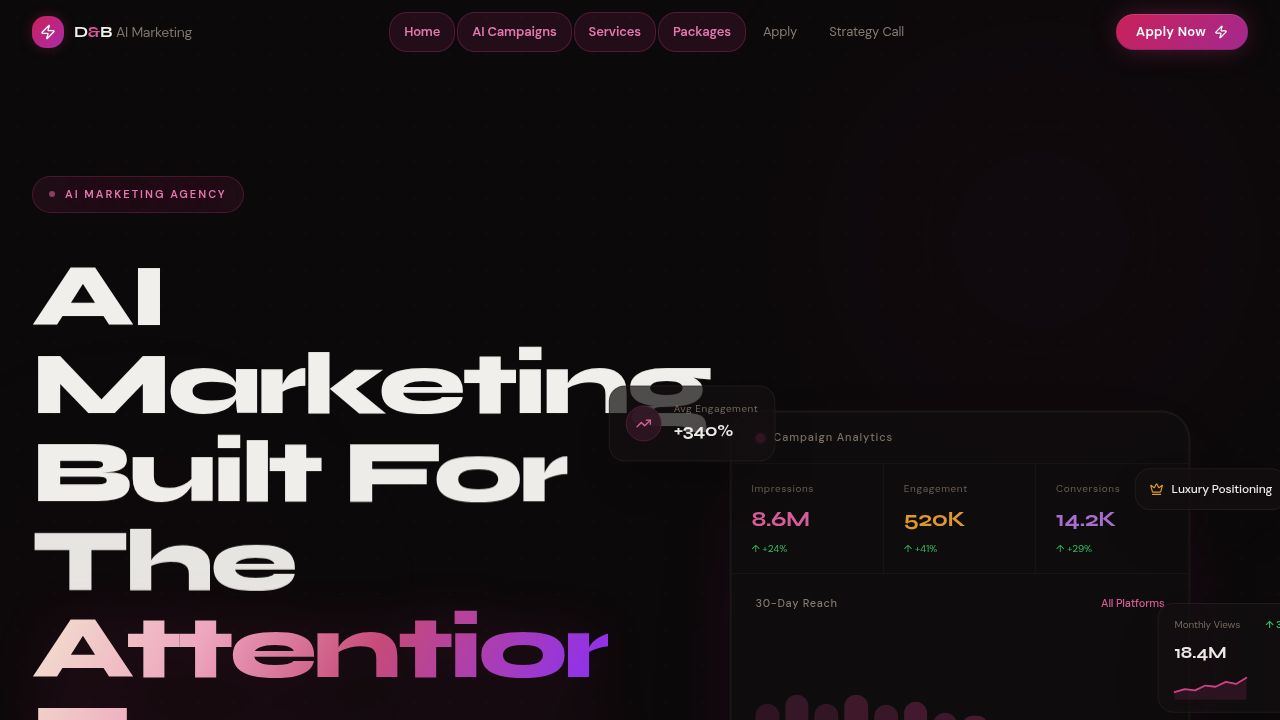
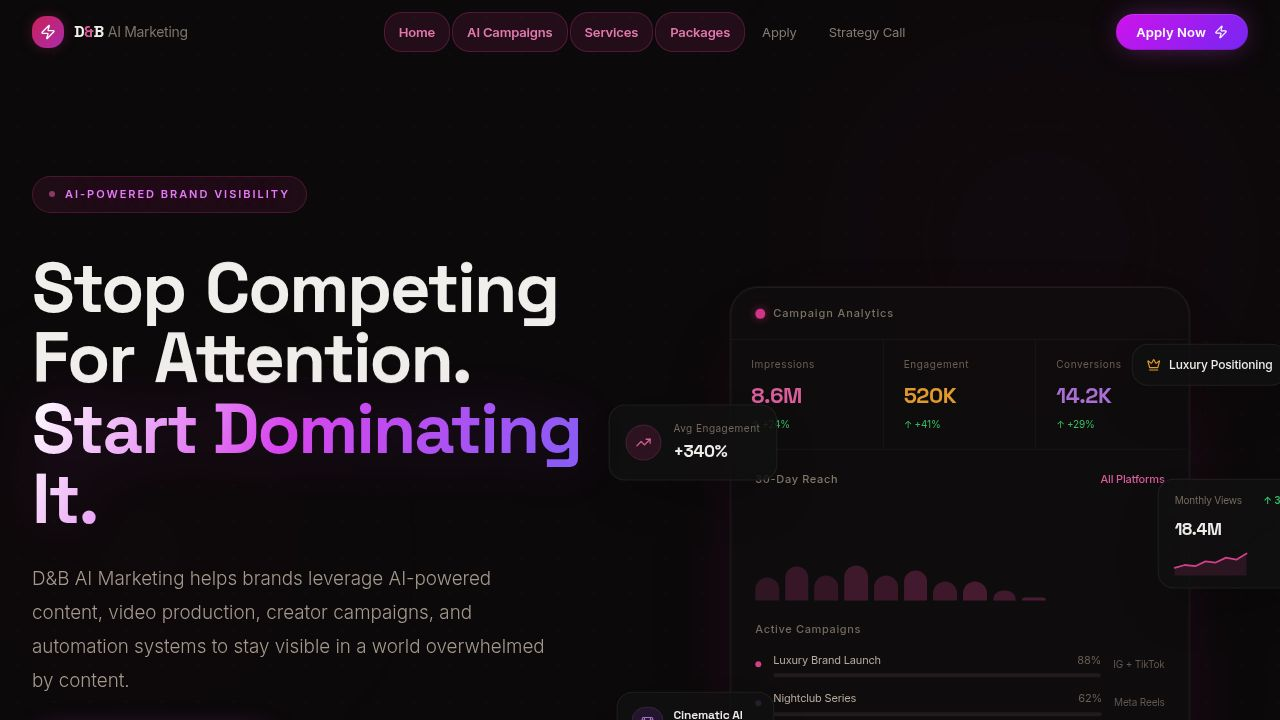
Integrate with GoHighLevel API for CRM contact management
Adds a backend proxy to handle GoHighLevel API requests and updates CRM functions to use this proxy, ensuring secure handling of API credentials and data.

Replit-Commit-Author: Agent
Replit-Commit-Session-Id: 8994f5b4-9697-4e69-870e-6b228a8e87fc
Replit-Commit-Checkpoint-Type: full_checkpoint
Replit-Commit-Event-Id: 0b8d0b77-85d4-4b7c-a1d1-13adb9010152
Replit-Commit-Screenshot-Url: https://storage.googleapis.com/screenshot-production-us-central1/397fbe9b-0791-43e6-8941-d441443d4e98/8994f5b4-9697-4e69-870e-6b228a8e87fc/2cfG6Y1
Replit-Helium-Checkpoint-Created: true

diff --git a/artifacts/app-squad/src/lib/crm.ts b/artifacts/app-squad/src/lib/crm.ts
@@ -1,4 +1,37 @@
-// CRM integration stubs — replace console.log with GoHighLevel webhook calls when ready.
+// CRM integration — proxies through the API server to GoHighLevel V2.
+// The backend route is POST /api/ghl/contact.
+
+const GHL_PROXY = "/api/ghl/contact";
+
+async function upsertGHLContact(payload: {
+  firstName: string;
+  lastName?: string;
+  email: string;
+  phone: string;
+  tags?: string[];
+  customFields?: Record<string, string>;
+}) {
+  try {
+    const res = await fetch(GHL_PROXY, {
+      method: "POST",
+      headers: { "Content-Type": "application/json" },
+      body: JSON.stringify(payload),
+    });
+    if (!res.ok) {
+      const err = await res.json().catch(() => ({}));
+      console.warn("[CRM] GHL error:", err);
+    }
+  } catch (e) {
+    console.warn("[CRM] Could not reach proxy:", e);
+  }
+}
+
+function splitName(full: string): { firstName: string; lastName: string } {
+  const parts = full.trim().split(/\s+/);
+  const firstName = parts[0] ?? full;
+  const lastName = parts.slice(1).join(" ");
+  return { firstName, lastName };
+}
 
 export function sendLeadToCRM(payload: {
   name: string;
@@ -6,16 +39,15 @@ export function sendLeadToCRM(payload: {
   phone: string;
   source: string;
 }) {
-  // TODO: Replace with GoHighLevel webhook endpoint
-  const data = {
-    source: payload.source,
-    stage: "lead_captured",
-    clientName: payload.name,
+  const { firstName, lastName } = splitName(payload.name);
+  upsertGHLContact({
+    firstName,
+    lastName,
     email: payload.email,
     phone: payload.phone,
-    timestamp: new Date().toISOString(),
-  };
-  console.log("[CRM] sendLeadToCRM:", JSON.stringify(data, null, 2));
+    tags: ["lead", payload.source],
+    customFields: { stage: "lead_captured", source: payload.source },
+  });
 }
 
 export function sendApplicationToCRM(payload: {
@@ -28,20 +60,22 @@ export function sendApplicationToCRM(payload: {
   timeline: string;
   source: string;
 }) {
-  // TODO: Replace with GoHighLevel webhook endpoint
-  const data = {
-    source: payload.source,
-    stage: "application_submitted",
-    clientName: payload.name,
+  const { firstName, lastName } = splitName(payload.name);
+  upsertGHLContact({
+    firstName,
+    lastName,
     email: payload.email,
     phone: payload.phone,
-    goal: payload.goal,
-    gameInterest: payload.game,
-    budgetRange: payload.budget,
-    launchTimeline: payload.timeline,
-    timestamp: new Date().toISOString(),
-  };
-  console.log("[CRM] sendApplicationToCRM:", JSON.stringify(data, null, 2));
+    tags: ["application", payload.source],
+    customFields: {
+      stage: "application_submitted",
+      source: payload.source,
+      goal: payload.goal,
+      game_interest: payload.game,
+      budget_range: payload.budget,
+      launch_timeline: payload.timeline,
+    },
+  });
 }
 
 export function sendGameSelectionToCRM(payload: {
@@ -53,19 +87,21 @@ export function sendGameSelectionToCRM(payload: {
   templateName: string;
   source: string;
 }) {
-  // TODO: Replace with GoHighLevel webhook endpoint
-  const data = {
-    source: "post_payment_onboarding",
-    stage: "game_selected",
-    clientName: payload.clientName,
+  const { firstName, lastName } = splitName(payload.clientName);
+  upsertGHLContact({
+    firstName,
+    lastName,
     email: payload.email,
     phone: payload.phone,
-    selectedGameType: payload.selectedGameType,
-    gameCategory: payload.gameCategory,
-    templateName: payload.templateName,
-    timestamp: new Date().toISOString(),
-  };
-  console.log("[CRM] sendGameSelectionToCRM:", JSON.stringify(data, null, 2));
+    tags: ["onboarding", "game-selected"],
+    customFields: {
+      stage: "game_selected",
+      source: "post_payment_onboarding",
+      selected_game_type: payload.selectedGameType,
+      game_category: payload.gameCategory,
+      template_name: payload.templateName,
+    },
+  });
 }
 
 export function sendCustomizationToCRM(payload: {
@@ -81,23 +117,25 @@ export function sendCustomizationToCRM(payload: {
   notesForDevelopmentTeam: string;
   source: string;
 }) {
-  // TODO: Replace with GoHighLevel webhook endpoint
-  const data = {
-    source: "post_payment_onboarding",
-    stage: "customization_submitted",
-    clientName: payload.clientName,
+  const { firstName, lastName } = splitName(payload.clientName);
+  upsertGHLContact({
+    firstName,
+    lastName,
     email: payload.email,
     phone: payload.phone,
-    appName: payload.appName,
-    brandName: payload.brandName,
-    preferredColors: payload.preferredColors,
-    targetAudience: payload.targetAudience,
-    appDescription: payload.appDescription,
-    monetizationPreference: payload.monetizationPreference,
-    notesForDevelopmentTeam: payload.notesForDevelopmentTeam,
-    timestamp: new Date().toISOString(),
-  };
-  console.log("[CRM] sendCustomizationToCRM:", JSON.stringify(data, null, 2));
+    tags: ["onboarding", "customization-submitted"],
+    customFields: {
+      stage: "customization_submitted",
+      source: "post_payment_onboarding",
+      app_name: payload.appName,
+      brand_name: payload.brandName,
+      preferred_colors: payload.preferredColors,
+      target_audience: payload.targetAudience,
+      app_description: payload.appDescription,
+      monetization_preference: payload.monetizationPreference,
+      notes_for_dev_team: payload.notesForDevelopmentTeam,
+    },
+  });
 }
 
 export function sendPartnerApplicationToCRM(payload: {
@@ -113,24 +151,26 @@ export function sendPartnerApplicationToCRM(payload: {
   bizOppExperience: string;
   reasonForPartnering: string;
 }) {
-  // TODO: Replace with GoHighLevel webhook endpoint
-  const data = {
-    source: "partner_program",
-    stage: "partner_application_submitted",
-    partnerName: payload.partnerName,
+  const { firstName, lastName } = splitName(payload.partnerName);
+  upsertGHLContact({
+    firstName,
+    lastName,
     email: payload.email,
     phone: payload.phone,
-    company: payload.company,
-    website: payload.website,
-    promotionMethod: payload.promotionMethod,
-    audienceType: payload.audienceType,
-    estimatedLeadVolume: payload.estimatedLeadVolume,
-    paidAdsExperience: payload.paidAdsExperience,
-    bizOppExperience: payload.bizOppExperience,
-    reasonForPartnering: payload.reasonForPartnering,
-    timestamp: new Date().toISOString(),
-  };
-  console.log("[CRM] sendPartnerApplicationToCRM:", JSON.stringify(data, null, 2));
+    tags: ["partner-application"],
+    customFields: {
+      stage: "partner_application_submitted",
+      source: "partner_program",
+      company: payload.company,
+      website: payload.website,
+      promotion_method: payload.promotionMethod,
+      audience_type: payload.audienceType,
+      estimated_lead_volume: payload.estimatedLeadVolume,
+      paid_ads_experience: payload.paidAdsExperience,
+      biz_opp_experience: payload.bizOppExperience,
+      reason_for_partnering: payload.reasonForPartnering,
+    },
+  });
 }
 
 export function updateProjectStatusInCRM(payload: {
@@ -140,14 +180,17 @@ export function updateProjectStatusInCRM(payload: {
   status: string;
   source: string;
 }) {
-  // TODO: Replace with GoHighLevel webhook endpoint
-  const data = {
-    source: "post_payment_onboarding",
-    stage: payload.stage,
-    status: payload.status,
-    clientName: payload.clientName,
+  const { firstName, lastName } = splitName(payload.clientName);
+  upsertGHLContact({
+    firstName,
+    lastName,
     email: payload.email,
-    timestamp: new Date().toISOString(),
-  };
-  console.log("[CRM] updateProjectStatusInCRM:", JSON.stringify(data, null, 2));
+    phone: "",
+    tags: ["project-update", payload.stage],
+    customFields: {
+      stage: payload.stage,
+      status: payload.status,
+      source: payload.source,
+    },
+  });
 }

diff --git a/artifacts/api-server/src/routes/ghl.ts b/artifacts/api-server/src/routes/ghl.ts
@@ -1,0 +1,51 @@
+import { Router, type IRouter } from "express";
+
+const router: IRouter = Router();
+
+router.post("/ghl/contact", async (req, res) => {
+  const { firstName, lastName, email, phone, tags, customFields } = req.body;
+
+  const apiKey = process.env.GHL_API_KEY;
+  const locationId = process.env.GHL_LOCATION_ID;
+
+  if (!apiKey || !locationId) {
+    req.log.error("GHL credentials not configured");
+    res.status(500).json({ error: "GHL credentials not configured" });
+    return;
+  }
+
+  try {
+    const ghlRes = await fetch("https://services.leadconnectorhq.com/contacts/", {
+      method: "POST",
+      headers: {
+        Authorization: `Bearer ${apiKey}`,
+        Version: "2021-07-28",
+        "Content-Type": "application/json",
+      },
+      body: JSON.stringify({
+        locationId,
+        firstName: firstName ?? "",
+        lastName: lastName ?? "",
+        email: email ?? "",
+        phone: phone ?? "",
+        ...(tags ? { tags } : {}),
+        ...(customFields ? { customFields } : {}),
+      }),
+    });
+
+    const data = await ghlRes.json();
+
+    if (!ghlRes.ok) {
+      req.log.warn({ status: ghlRes.status, data }, "GHL API error");
+      res.status(ghlRes.status).json({ error: "GHL API error", details: data });
+      return;
+    }
+
+    res.json({ ok: true, contact: data });
+  } catch (err) {
+    req.log.error({ err }, "GHL proxy fetch failed");
+    res.status(502).json({ error: "Failed to reach GHL API" });
+  }
+});
+
+export default router;

diff --git a/artifacts/api-server/src/routes/index.ts b/artifacts/api-server/src/routes/index.ts
@@ -1,8 +1,10 @@
 import { Router, type IRouter } from "express";
 import healthRouter from "./health";
+import ghlRouter from "./ghl";
 
 const router: IRouter = Router();
 
 router.use(healthRouter);
+router.use(ghlRouter);
 
 export default router;